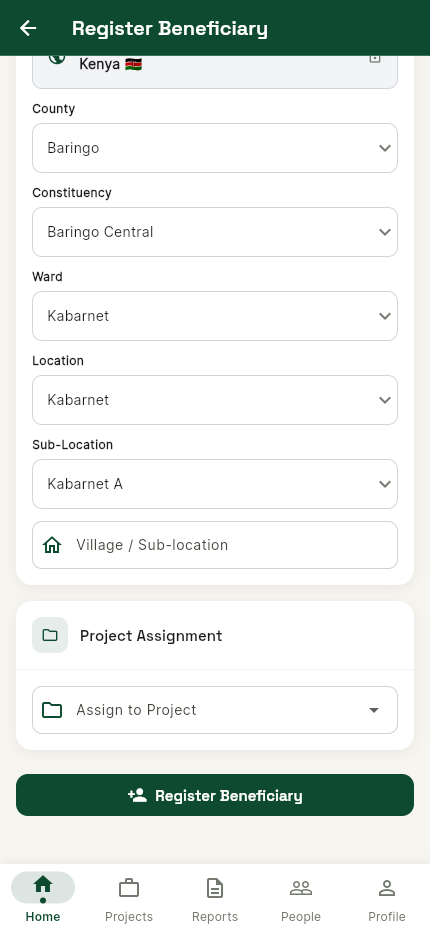
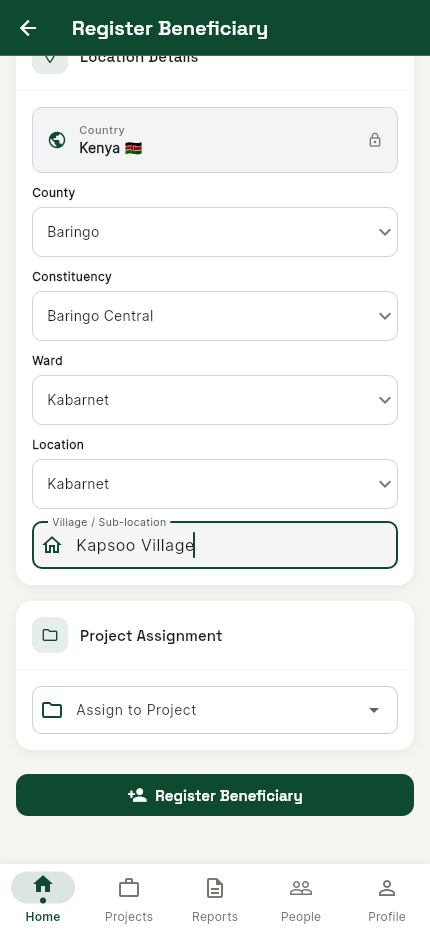
fix: remove sub-location dropdown, replace with free-text village field for beneficiary registration

diff --git a/mobile/lib/shared/widgets/kenya_location_picker.dart b/mobile/lib/shared/widgets/kenya_location_picker.dart
@@ -7,12 +7,12 @@ import '../../core/theme.dart';
 import '../../features/beneficiaries/beneficiary_repository.dart';
 
 /// Cascading Kenya location picker (eCitizen-style):
-/// fixed Country → County → Constituency → Ward → Location → Sub-Location
-/// dropdowns plus a free-text Village field. Each selection loads the next
+/// fixed Country → County → Constituency → Ward → Location dropdowns plus a
+/// free-text Village / Sub-location field. Each selection loads the next
 /// level from GET /api/v1/locations/kenya/ and resets everything below it.
 ///
 /// Reports every change through [onChanged] as
-/// `{country, county, constituency, ward, location, sub_location, village}`.
+/// `{country, county, constituency, ward, location, village}`.
 class KenyaLocationPicker extends StatefulWidget {
   final ValueChanged<Map<String, String>> onChanged;
 
@@ -27,20 +27,17 @@ class _KenyaLocationPickerState extends State<KenyaLocationPicker> {
   List<String> _constituencies = const [];
   List<String> _wards = const [];
   List<String> _locations = const [];
-  List<String> _subLocations = const [];
 
   String? _county;
   String? _constituency;
   String? _ward;
   String? _location;
-  String? _subLocation;
   String _village = '';
 
   bool _loadingCounties = false;
   bool _loadingConstituencies = false;
   bool _loadingWards = false;
   bool _loadingLocations = false;
-  bool _loadingSubLocations = false;
   bool _countiesFailed = false;
 
   @override
@@ -56,7 +53,6 @@ class _KenyaLocationPickerState extends State<KenyaLocationPicker> {
       'constituency': _constituency ?? '',
       'ward': _ward ?? '',
       'location': _location ?? '',
-      'sub_location': _subLocation ?? '',
       'village': _village.trim(),
     });
   }
@@ -121,21 +117,6 @@ class _KenyaLocationPickerState extends State<KenyaLocationPicker> {
     }
   }
 
-  Future<void> _loadSubLocations(String location) async {
-    setState(() => _loadingSubLocations = true);
-    try {
-      final subLocations = await context
-          .read<BeneficiaryRepository>()
-          .kenyaSubLocations(location);
-      if (!mounted) return;
-      setState(() => _subLocations = subLocations);
-    } on ApiException {
-      if (mounted) setState(() => _subLocations = const []);
-    } finally {
-      if (mounted) setState(() => _loadingSubLocations = false);
-    }
-  }
-
   @override
   Widget build(BuildContext context) {
     return Column(
@@ -167,11 +148,9 @@ class _KenyaLocationPickerState extends State<KenyaLocationPicker> {
                 _constituency = null;
                 _ward = null;
                 _location = null;
-                _subLocation = null;
                 _constituencies = const [];
                 _wards = const [];
                 _locations = const [];
-                _subLocations = const [];
               });
               _emit();
               if (value != null) _loadConstituencies(value);
@@ -192,10 +171,8 @@ class _KenyaLocationPickerState extends State<KenyaLocationPicker> {
               _constituency = value;
               _ward = null;
               _location = null;
-              _subLocation = null;
               _wards = const [];
               _locations = const [];
-              _subLocations = const [];
             });
             _emit();
             if (value != null) _loadWards(value);
@@ -219,9 +196,7 @@ class _KenyaLocationPickerState extends State<KenyaLocationPicker> {
             setState(() {
               _ward = value;
               _location = null;
-              _subLocation = null;
               _locations = const [];
-              _subLocations = const [];
             });
             _emit();
             if (value != null) _loadLocations(value);
@@ -242,31 +217,7 @@ class _KenyaLocationPickerState extends State<KenyaLocationPicker> {
           isLoading: _loadingLocations,
           enabled: _ward != null && _locations.isNotEmpty,
           onChanged: (value) {
-            setState(() {
-              _location = value;
-              _subLocation = null;
-              _subLocations = const [];
-            });
-            _emit();
-            if (value != null) _loadSubLocations(value);
-          },
-        ),
-        const SizedBox(height: 12),
-        _LocationDropdown(
-          key: const Key('sublocation_dropdown'),
-          label: 'Sub-Location',
-          icon: Icons.near_me_outlined,
-          hint: _location == null
-              ? 'Select location first'
-              : _subLocations.isEmpty && !_loadingSubLocations
-                  ? 'No sub-location data — skip'
-                  : 'Select Sub-Location',
-          items: _subLocations,
-          value: _subLocation,
-          isLoading: _loadingSubLocations,
-          enabled: _location != null && _subLocations.isNotEmpty,
-          onChanged: (value) {
-            setState(() => _subLocation = value);
+            setState(() => _location = value);
             _emit();
           },
         ),
@@ -275,7 +226,7 @@ class _KenyaLocationPickerState extends State<KenyaLocationPicker> {
           key: const Key('village_field'),
           decoration: const InputDecoration(
             labelText: 'Village / Sub-location',
-            hintText: 'e.g. Nyalenda, Kondele',
+            hintText: 'e.g. Taru, Samburu, Mwamdudu...',
             prefixIcon: Icon(Icons.home_outlined, color: AppColors.primary),
           ),
           onChanged: (v) {

diff --git a/mobile/test/shared/kenya_location_picker_test.dart b/mobile/test/shared/kenya_location_picker_test.dart
@@ -33,9 +33,6 @@ class LocationStub implements HttpClientAdapter {
     if (q['ward'] == 'Nyalenda A') {
       return _json({'status': 'success', 'data': ['Nyalenda Loc A', 'Nyalenda Loc B']});
     }
-    if (q['location'] == 'Nyalenda Loc A') {
-      return _json({'status': 'success', 'data': ['Sub A1', 'Sub A2']});
-    }
     return _json({'status': 'success', 'data': []});
   }
 
@@ -95,7 +92,7 @@ void main() {
     await tester.pumpAndSettle();
     expect(lastEmitted['ward'], 'Nyalenda A');
 
-    // Pick a location (loaded for the ward).
+    // Pick a location (loaded for the ward) — the last dropdown level.
     await tester.ensureVisible(find.byKey(const Key('location_dropdown')));
     await tester.tap(find.byKey(const Key('location_dropdown')));
     await tester.pumpAndSettle();
@@ -103,13 +100,8 @@ void main() {
     await tester.pumpAndSettle();
     expect(lastEmitted['location'], 'Nyalenda Loc A');
 
-    // Pick a sub-location.
-    await tester.ensureVisible(find.byKey(const Key('sublocation_dropdown')));
-    await tester.tap(find.byKey(const Key('sublocation_dropdown')));
-    await tester.pumpAndSettle();
-    await tester.tap(find.text('Sub A2').last);
-    await tester.pumpAndSettle();
-    expect(lastEmitted['sub_location'], 'Sub A2');
+    // No sub-location dropdown exists — village is free text.
+    expect(find.byKey(const Key('sublocation_dropdown')), findsNothing);
 
     // Type a village; the full map is emitted.
     await tester.ensureVisible(find.byKey(const Key('village_field')));
@@ -120,7 +112,6 @@ void main() {
       'constituency': 'Kisumu East',
       'ward': 'Nyalenda A',
       'location': 'Nyalenda Loc A',
-      'sub_location': 'Sub A2',
       'village': 'Nyalenda',
     });
   });
@@ -159,6 +150,5 @@ void main() {
     expect(lastEmitted['constituency'], '');
     expect(lastEmitted['ward'], '');
     expect(lastEmitted['location'], '');
-    expect(lastEmitted['sub_location'], '');
   });
 }

diff --git a/mobile/lib/features/beneficiaries/screens/register_beneficiary_screen.dart b/mobile/lib/features/beneficiaries/screens/register_beneficiary_screen.dart
@@ -105,7 +105,6 @@ class _RegisterBeneficiaryScreenState
         constituency: _location['constituency'] ?? '',
         ward: _location['ward'] ?? '',
         location: _location['location'] ?? '',
-        subLocation: _location['sub_location'] ?? '',
         village: _location['village'] ?? '',
       );
       if (!mounted) return;

diff --git a/HANDOVER.md b/HANDOVER.md
@@ -1,4 +1,29 @@
-# Session Handover — 2026-07-16 | Kenya Ward Data Complete (all 290)
+# Session Handover — 2026-07-16 | Sub-Location Dropdown Removed
+
+---
+
+## Sub-location dropdown removed (2026-07-16, per Peterson)
+
+Picker simplified to 5 dropdown levels + free text: Country (locked) →
+County → Constituency → Ward → Location, then a "Village / Sub-location"
+TextFormField (hint "e.g. Taru, Samburu, Mwamdudu...") where users type
+their own area. Flutter-only change:
+
+- `kenya_location_picker.dart`: sub-location dropdown, state, loader, and
+  emit key removed; Location is now the last cascading level.
+- Register screen no longer passes subLocation to create().
+- **Backend untouched by design**: the `sub_location` model field, the
+  `?location=` API level, LOCATION_SUBLOCATION data, and the repository's
+  `kenyaSubLocations()` all remain (new records just leave sub_location
+  empty). The list-card summary getter still includes subLocation first,
+  so old seeded rows keep their display; new rows show
+  "Location · Ward · Constituency".
+- Verified: analyze 0, **47/47 tests** (picker test asserts the dropdown
+  is gone), web rebuilt; live E2E Baringo → Baringo Central → Kabarnet →
+  Kabarnet → typed "Kapsoo Village" → submitted; list shows
+  "Kabarnet · Kabarnet · Baringo Central". Test record soft-deleted.
+- `docs/screenshots/app-register-beneficiary.png` retaken with the new
+  5-level form.
 
 ---
 